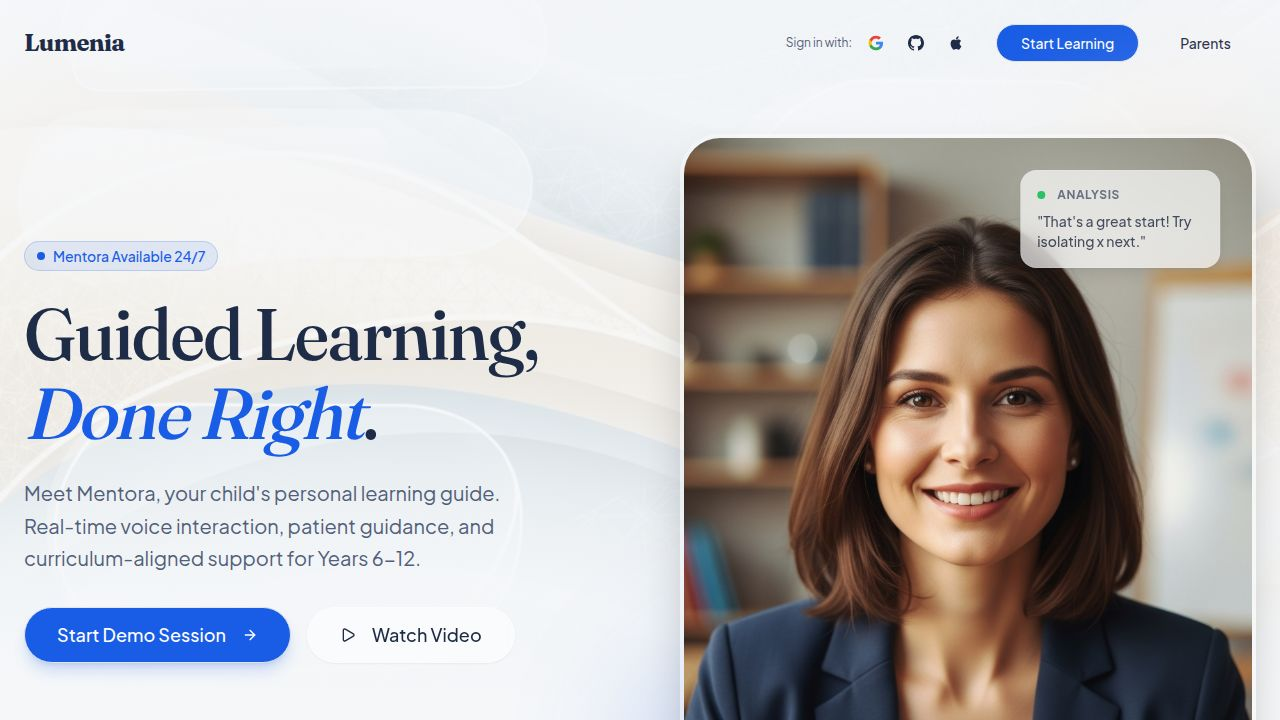
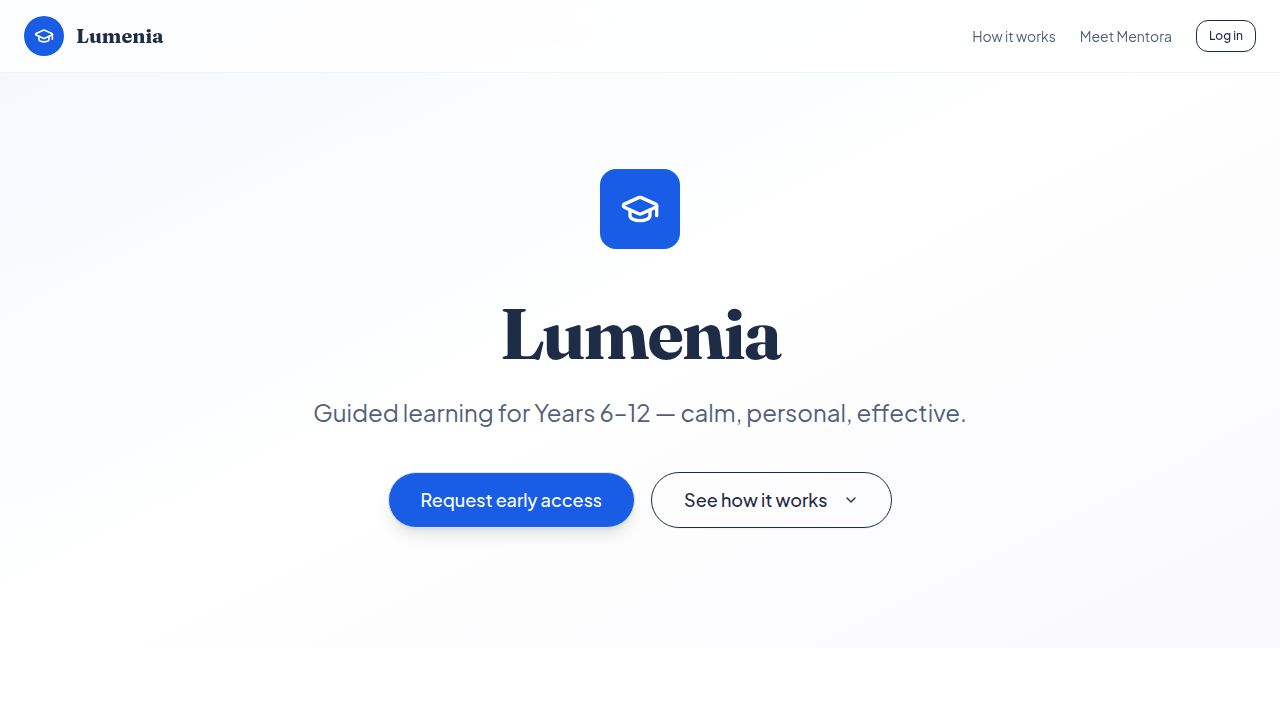
Add login button to the landing page header for app access
Add a header navigation to the landing page, including a "Log in" button, to enable user access to the authenticated application.

Replit-Commit-Author: Agent
Replit-Commit-Session-Id: 77131ca4-c296-4fbc-a156-0b0da38913be
Replit-Commit-Checkpoint-Type: full_checkpoint
Replit-Commit-Event-Id: 72eea3cc-a014-441f-8b12-5e0365853322
Replit-Commit-Screenshot-Url: https://storage.googleapis.com/screenshot-production-us-central1/5c9a3252-99a9-402f-8999-a010c3f152d1/77131ca4-c296-4fbc-a156-0b0da38913be/WZl4yeG
Replit-Helium-Checkpoint-Created: true

diff --git a/client/src/pages/PublicLanding.tsx b/client/src/pages/PublicLanding.tsx
@@ -57,8 +57,39 @@ export default function PublicLanding() {
 
   return (
     <div className="min-h-screen bg-gradient-to-b from-slate-50 to-white" data-testid="public-landing">
+      {/* Header Navigation */}
+      <header className="fixed top-0 left-0 right-0 z-50 bg-white/80 backdrop-blur-md border-b border-slate-100">
+        <div className="max-w-7xl mx-auto px-6 py-4 flex items-center justify-between">
+          <div className="flex items-center gap-3">
+            <div className="w-10 h-10 rounded-xl bg-primary flex items-center justify-center">
+              <GraduationCap className="h-5 w-5 text-white" />
+            </div>
+            <span className="text-xl font-serif font-bold text-foreground">Lumenia</span>
+          </div>
+          <nav className="flex items-center gap-6">
+            <button 
+              onClick={() => scrollToSection("how-it-works")}
+              className="text-sm text-muted-foreground hover:text-foreground transition-colors hidden sm:block"
+            >
+              How it works
+            </button>
+            <button 
+              onClick={() => scrollToSection("mentora")}
+              className="text-sm text-muted-foreground hover:text-foreground transition-colors hidden sm:block"
+            >
+              Meet Mentora
+            </button>
+            <Link href="/login">
+              <Button variant="outline" size="sm" data-testid="header-login-btn">
+                Log in
+              </Button>
+            </Link>
+          </nav>
+        </div>
+      </header>
+
       {/* Hero Section */}
-      <section className="relative min-h-[90vh] flex flex-col items-center justify-center px-6 py-20">
+      <section className="relative min-h-[90vh] flex flex-col items-center justify-center px-6 py-20 pt-32">
         <div className="absolute inset-0 bg-gradient-to-br from-blue-50/50 via-white to-purple-50/30" />
         
         <div className="relative z-10 max-w-4xl mx-auto text-center">
